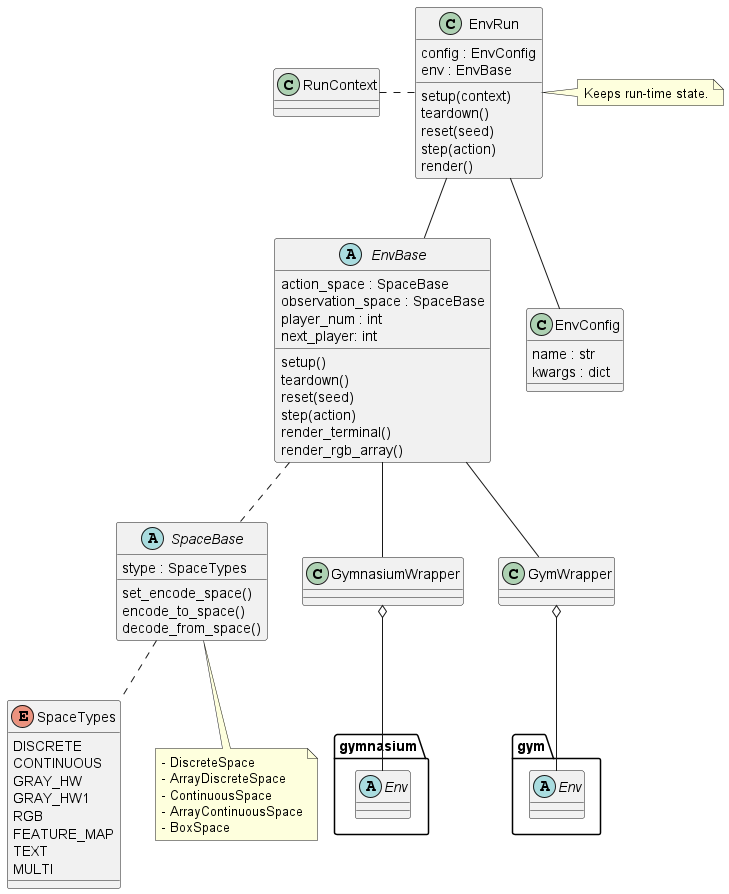
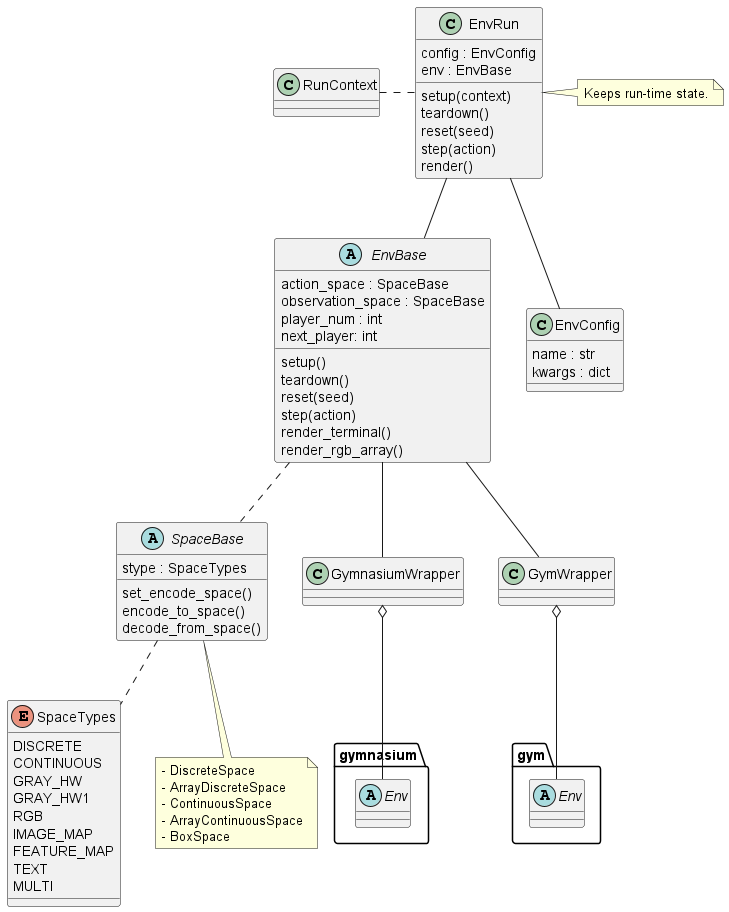
[base.define] new: IMAGE_MAPを追加

diff --git a/tests/quick/base/rl/test_worker_run_obs.py b/tests/quick/base/rl/test_worker_run_obs.py
@@ -432,7 +432,7 @@ _params = [
         render_image_window_length=2,
         true_obs_env_space=BoxSpace((16, 16), stype=SpaceTypes.GRAY_HW),
         true_obs_space_one=BoxSpace((16, 16), stype=SpaceTypes.GRAY_HW, is_stack_ch=True),
-        true_obs_space=BoxSpace((16, 16, 2), stype=SpaceTypes.FEATURE_MAP),
+        true_obs_space=BoxSpace((16, 16, 2), stype=SpaceTypes.IMAGE_MAP),
         env_states=[np.ones((16, 16)), np.ones((16, 16)), np.ones((16, 16))],
         true_rl_states=[np.ones((16, 16)), np.ones((16, 16)), np.ones((16, 16))],
     ),
@@ -444,7 +444,7 @@ _params = [
         render_image_window_length=2,
         true_obs_env_space=BoxSpace((16, 16, 1), stype=SpaceTypes.GRAY_HW1),
         true_obs_space_one=BoxSpace((16, 16, 1), stype=SpaceTypes.GRAY_HW1, is_stack_ch=True),
-        true_obs_space=BoxSpace((16, 16, 2), stype=SpaceTypes.FEATURE_MAP),
+        true_obs_space=BoxSpace((16, 16, 2), stype=SpaceTypes.IMAGE_MAP),
         env_states=[np.ones((16, 16, 1)), np.ones((16, 16, 1)), np.ones((16, 16, 1))],
         true_rl_states=[np.ones((16, 16, 1)), np.ones((16, 16, 1)), np.ones((16, 16, 1))],
     ),

diff --git a/srl/base/spaces/box.py b/srl/base/spaces/box.py
@@ -150,7 +150,7 @@ class BoxSpace(SpaceBase[np.ndarray]):
         elif self._stype == SpaceTypes.GRAY_HW1:
             assert x.ndim == 3 and x.shape[2] == 1, f"{self._stype.name} expects (H, W, 1), got {x.shape}"
             x = np.repeat(x, 3, axis=2)  # (H, W, 3)
-        elif self._stype in {SpaceTypes.RGB, SpaceTypes.FEATURE_MAP}:
+        elif self._stype in {SpaceTypes.RGB, SpaceTypes.IMAGE_MAP, SpaceTypes.FEATURE_MAP}:
             assert x.ndim == 3, f"{self._stype.name} expects 3D shape (H, W, C), got {x.shape}"
             if x.shape[2] == 1:
                 x = np.repeat(x, 3, axis=2)  # (H, W, 1) → (H, W, 3)
@@ -289,7 +289,7 @@ class BoxSpace(SpaceBase[np.ndarray]):
                 np.min(self._low),
                 np.max(self._high),
                 self._dtype,
-                SpaceTypes.FEATURE_MAP,
+                SpaceTypes.IMAGE_MAP,
             )
         else:
             return BoxSpace(

diff --git a/srl/rl/torch_/blocks/input_image_reshape_block.py b/srl/rl/torch_/blocks/input_image_reshape_block.py
@@ -52,14 +52,18 @@ class InputImageReshapeBlock(nn.Module):
                 x = x.permute((0, 3, 1, 2))
             else:
                 raise ValueError(err_msg)
-
+        elif self.space.stype == SpaceTypes.IMAGE_MAP:
+            if len(self.space.shape) == 3:
+                # (batch, h, w, ch) -> (batch, ch, h, w)
+                x = x.permute((0, 3, 1, 2))
+            else:
+                raise ValueError(err_msg)
         elif self.space.stype == SpaceTypes.FEATURE_MAP:
             if len(self.space.shape) == 3:
                 # (batch, h, w, ch) -> (batch, ch, h, w)
                 x = x.permute((0, 3, 1, 2))
             else:
                 raise ValueError(err_msg)
-
         else:
             raise ValueError(err_msg)
 

diff --git a/srl/base/spaces/space.py b/srl/base/spaces/space.py
@@ -133,6 +133,7 @@ class SpaceBase(ABC, Generic[_T]):
             SpaceTypes.GRAY_HW,
             SpaceTypes.GRAY_HW1,
             SpaceTypes.RGB,
+            SpaceTypes.IMAGE_MAP,
         ]
 
     def is_image_like(self) -> bool:
@@ -140,6 +141,7 @@ class SpaceBase(ABC, Generic[_T]):
             SpaceTypes.GRAY_HW,
             SpaceTypes.GRAY_HW1,
             SpaceTypes.RGB,
+            SpaceTypes.IMAGE_MAP,
             SpaceTypes.FEATURE_MAP,
         ]
 

diff --git a/tests/quick/base/spaces/test_box.py b/tests/quick/base/spaces/test_box.py
@@ -49,7 +49,7 @@ def test_stack():
 
     o = space.create_stack_space(2)
     assert isinstance(o, BoxSpace)
-    assert o == BoxSpace((64, 32, 2), 0, 255, stype=SpaceTypes.FEATURE_MAP)
+    assert o == BoxSpace((64, 32, 2), 0, 255, stype=SpaceTypes.IMAGE_MAP)
 
     v = space.encode_stack([np.ones((64, 32)), np.ones((64, 32))])
     assert v.shape == (64, 32, 2)

diff --git a/srl/base/define.py b/srl/base/define.py
@@ -106,6 +106,7 @@ class SpaceTypes(enum.Enum):
     GRAY_HW = enum.auto()  # (height, width)
     GRAY_HW1 = enum.auto()  # (height, width, 1)
     RGB = enum.auto()  # (height, width, 3)
+    IMAGE_MAP = enum.auto()  # (height, width, ch)
     FEATURE_MAP = enum.auto()  # (height, width, ch)
     TEXT = enum.auto()
     MULTI = enum.auto()  # list

diff --git a/srl/rl/tf/blocks/input_image_reshape_layers.py b/srl/rl/tf/blocks/input_image_reshape_layers.py
@@ -40,7 +40,9 @@ def create_input_image_reshape_layers(space: BoxSpace, rnn: bool) -> list:
             pass
         else:
             raise TFLayerError(err_msg)
-
+    elif space.stype == SpaceTypes.IMAGE_MAP:
+        # (h, w, ch)
+        pass
     elif space.stype == SpaceTypes.FEATURE_MAP:
         # (h, w, ch)
         pass
